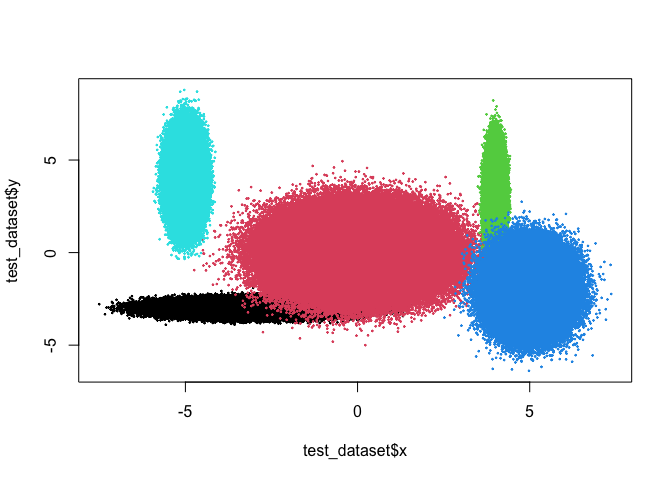
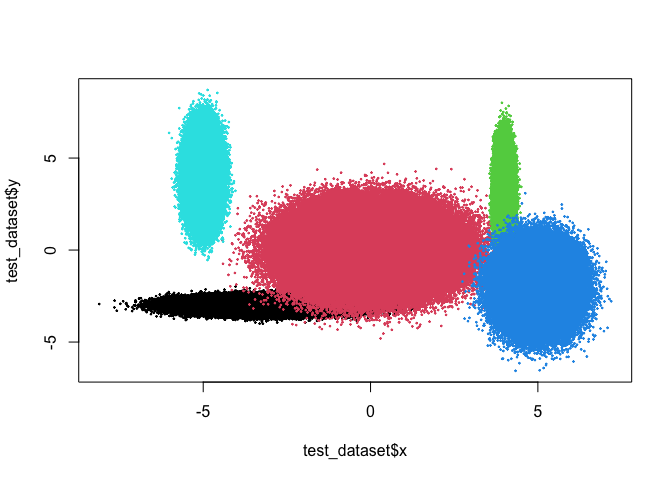
Added link to e1071

diff --git a/README.md b/README.md
@@ -8,9 +8,10 @@
 
 The goal of sbclust is to provide an approach to cluster large datasets
 through a sample-based bagged clustering algorithm, which is effectively
-just the `bclust` function from the `e1071` package with one tiny edit
-that allows to grab a sample of the dataset for each run instead of the
-whole dataset.
+just the `bclust` function from the
+[e1071](https://cran.r-project.org/web/packages/e1071/index.html)
+package with one tiny edit that allows to grab a sample of the dataset
+for each run instead of the whole dataset.
 
 ## Installation
 
@@ -111,15 +112,11 @@ clustering_result <-
   )
 #> Committee Member: 1(1)
 #>  2(1)
-#> Warning: Quick-TRANSfer stage steps exceeded maximum (= 1500000)
-#> 
 #>  3(1)
 #>  4(1)
 #>  5(1)
 #>  6(1)
 #>  7(1)
-#> Warning: Quick-TRANSfer stage steps exceeded maximum (= 1500000)
-#> 
 #>  8(1)
 #>  9(1)
 #>  10(1)
@@ -130,7 +127,7 @@ end_time <- Sys.time()
 
 # Check time lapsed
 end_time - start_time
-#> Time difference of 2.67084 secs
+#> Time difference of 2.6321 secs
 
 # Save results
 test_dataset["sbclust"] <- clustering_result$cluster
@@ -162,10 +159,10 @@ centres_mean
 #> [4,]    5   -2
 #> [5,]   -5    4
 clustering_result$centers
-#>             [,1]        [,2]
-#> [1,] -2.96229101 -2.98186875
-#> [2,]  0.00299013  0.02204801
-#> [3,]  4.99214533 -2.01441956
-#> [4,]  3.99986538  2.98577007
-#> [5,] -4.99712398  3.99011194
+#>              [,1]        [,2]
+#> [1,] -4.996561644  3.98322325
+#> [2,] -2.979983834 -2.98478670
+#> [3,]  3.998812323  2.97560647
+#> [4,]  4.994837529 -2.04239691
+#> [5,] -0.009966978  0.03353502
 ```
